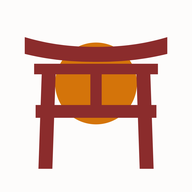
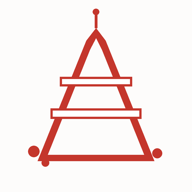
feat: 換成專屬東京鐵塔圖示，CLAUDE.md 補充 Firebase 現況說明
App icon 改成紅白東京鐵塔造型（原本跟 202610nagoya 共用同一組鳥居圖示，
手機桌面會分不清楚），讓兩個行程 app 在桌面上一眼就能分辨。另外在
CLAUDE.md 註記 Firebase 上的行程資料已經手動編輯過，不要再跑
scripts/seed.mjs 覆寫。

diff --git a/CLAUDE.md b/CLAUDE.md
@@ -47,6 +47,8 @@ https://tour.colatour.com.tw/itinerary?TourCode=NTX111805BR6C&TourDate=2026/11/1
 
 初始行程資料（含景點介紹、候補飯店清單）已寫在 `scripts/seed.mjs`，來源為旅行社行程 PDF。**住宿飯店為旅行社候補清單（擇一同級旅館）**，實際入住飯店請依行前說明會資料更新。
 
+**⚠ `scripts/seed.mjs` 只是初始種子資料，Firebase 上的實際內容已經過手動編輯（補了真實訂房資訊、官方景點圖片、更完整的介紹文字、機場商家參考文章等），兩邊已經不一致。不要再重新執行 `node scripts/seed.mjs`，會整批覆寫掉這些手動編輯的內容。之後要改資料請直接在網頁上改，或用 Firebase MCP 工具針對單一欄位路徑寫入。
+
 ## 部署設定
 
 - **平台：** GitHub Pages
